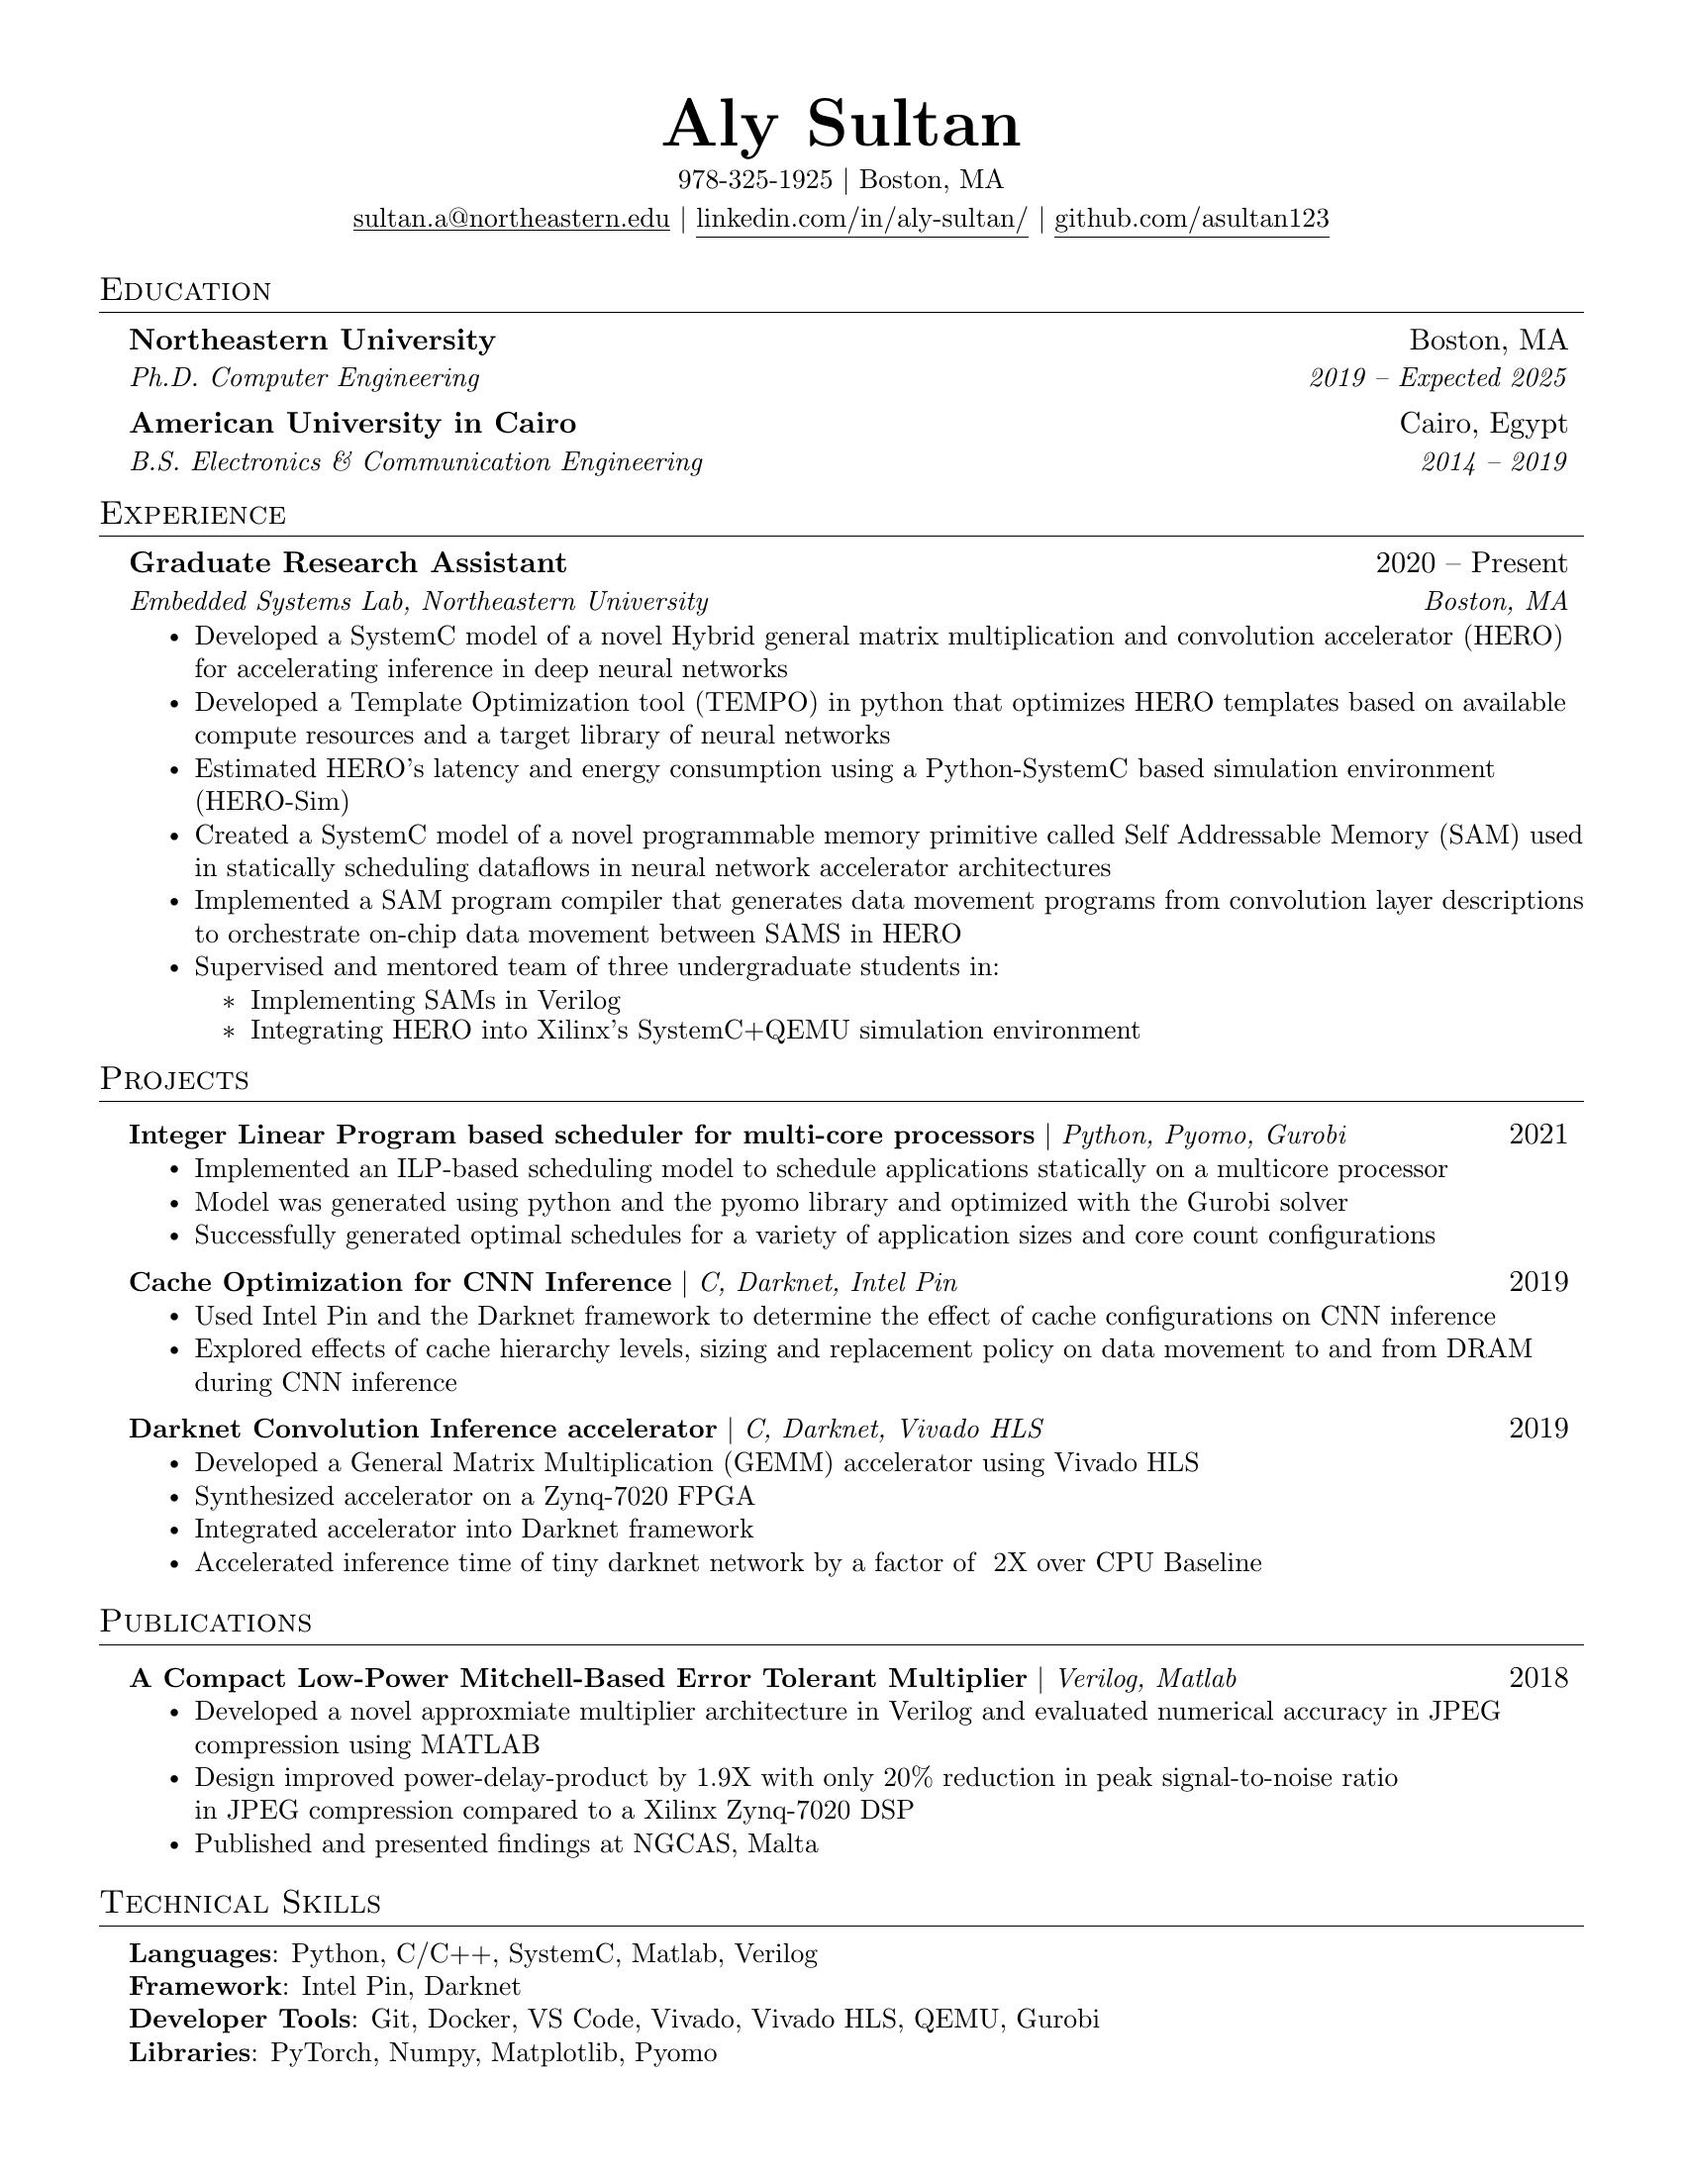
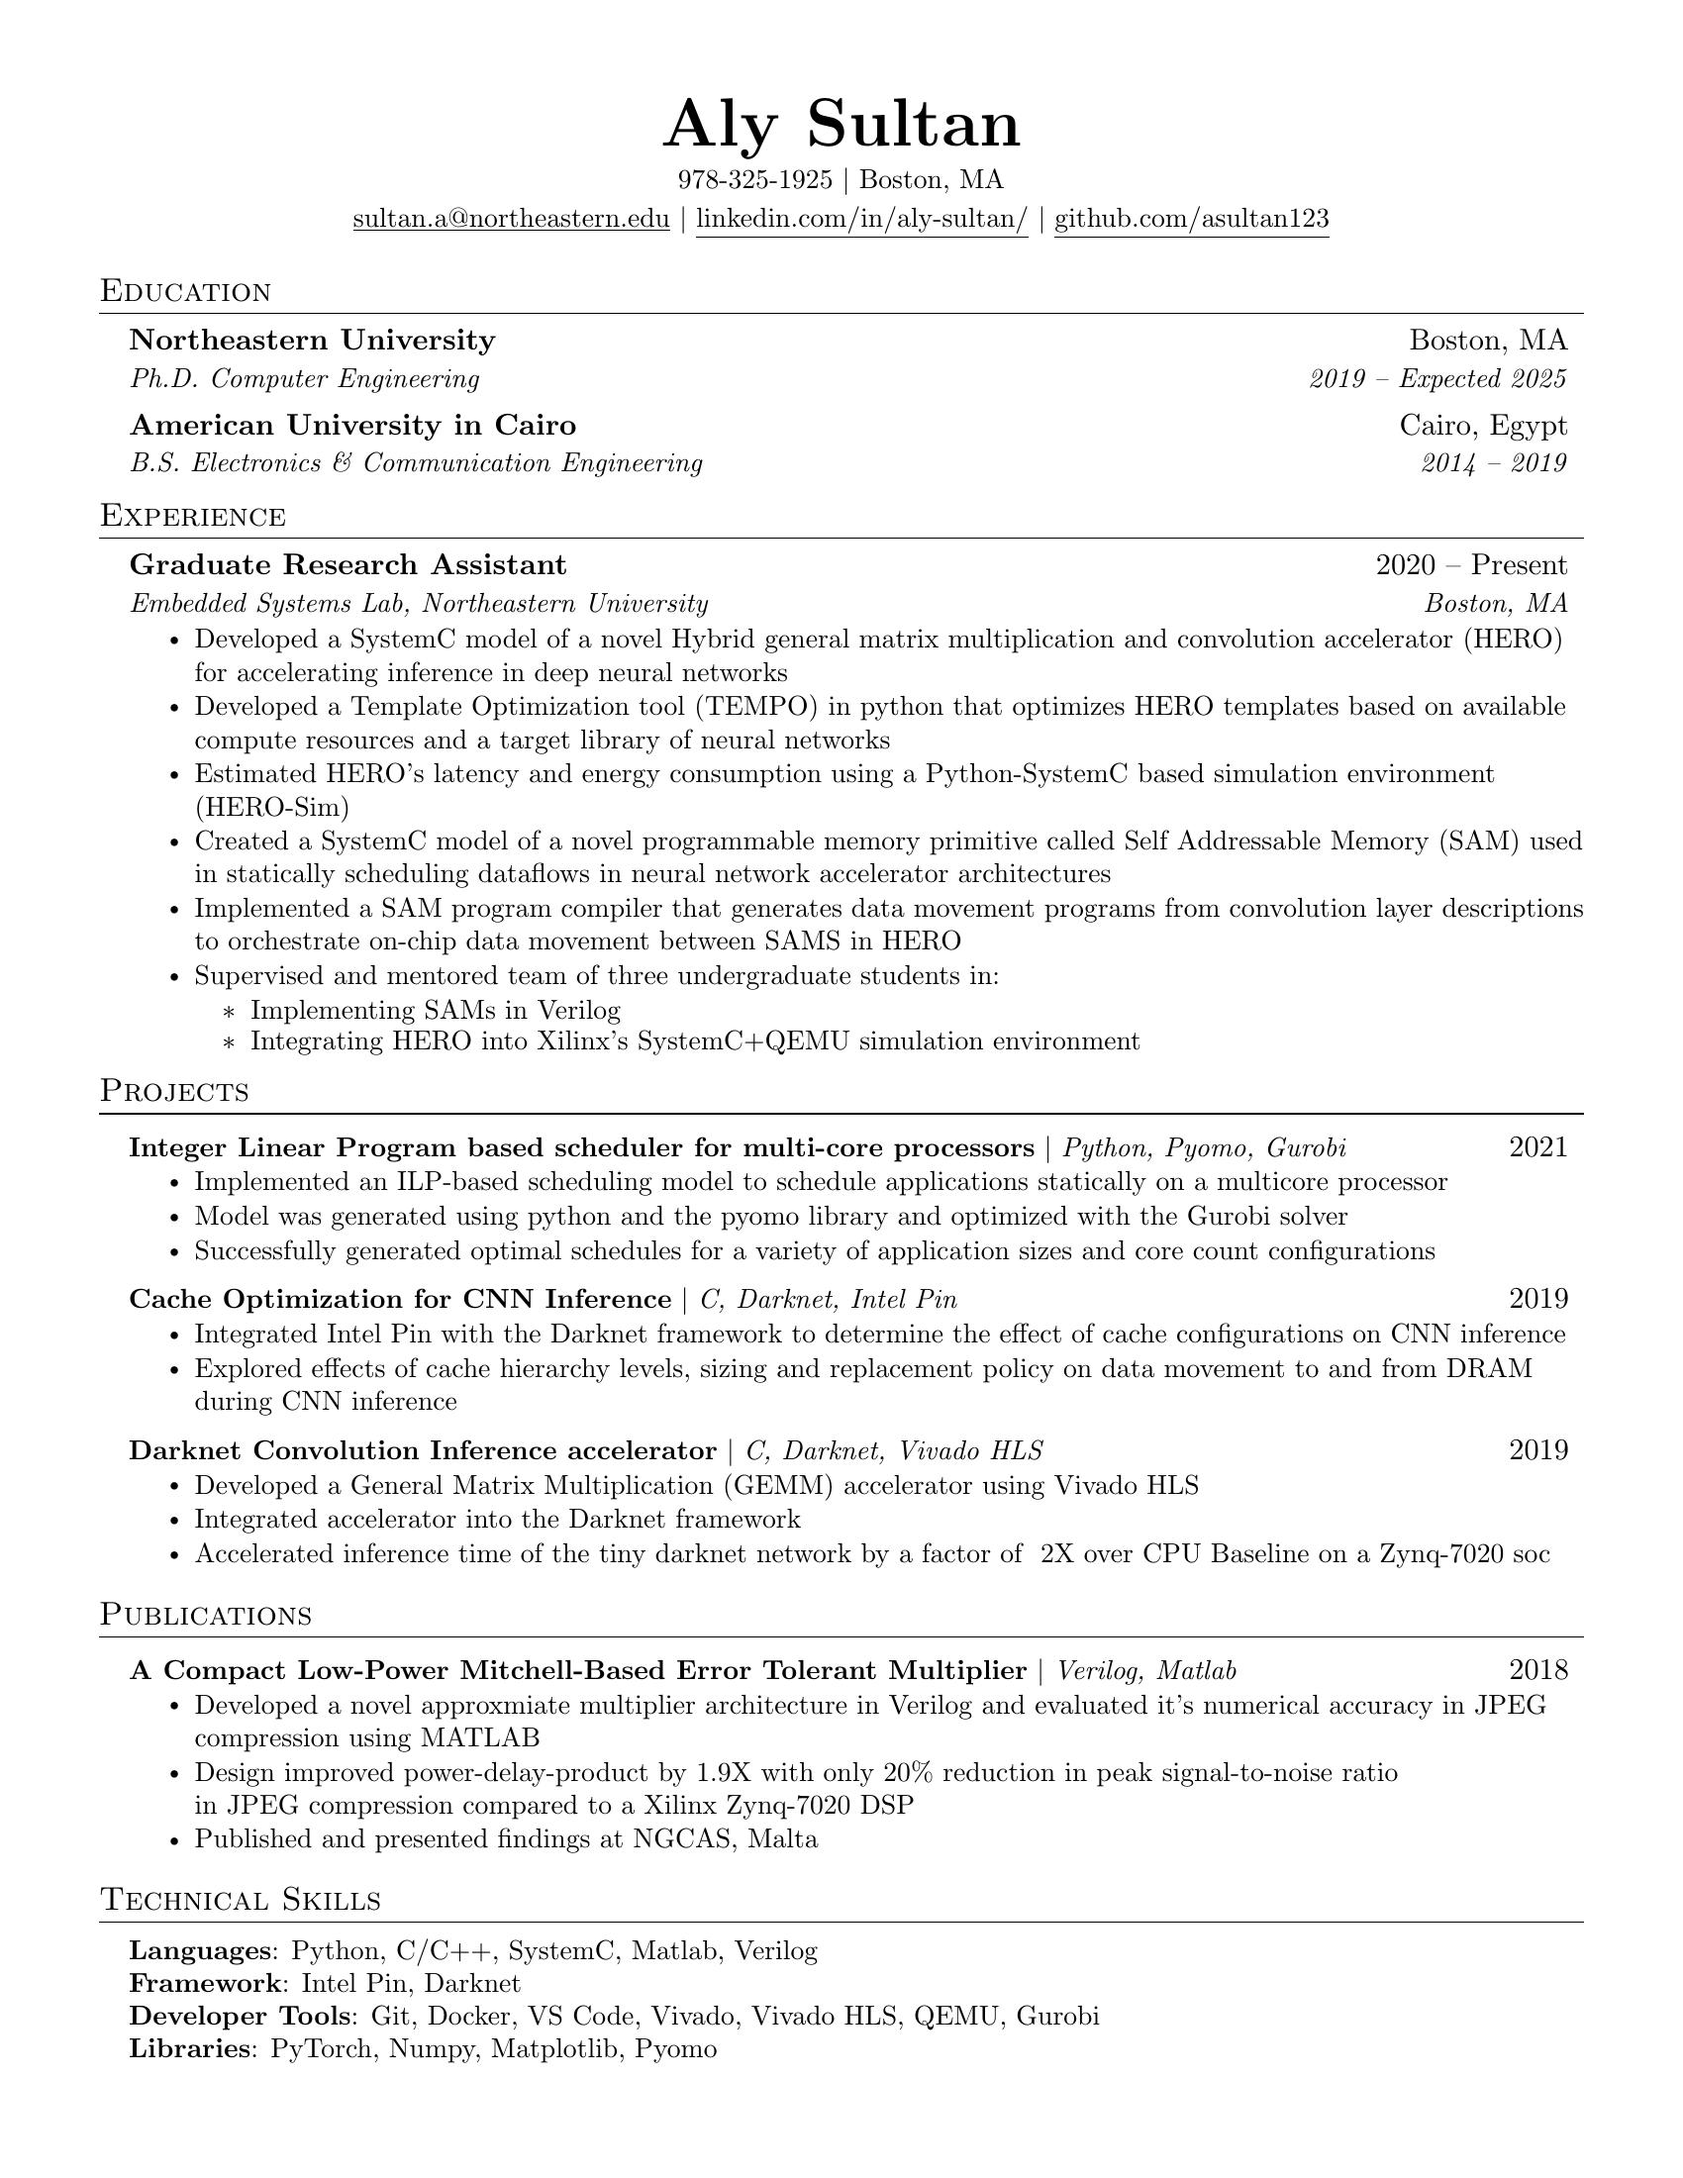
update

diff --git a/main.tex b/main.tex
@@ -157,7 +157,7 @@
   \resumeSubHeadingListEnd
 
 %-----------PROJECTS-----------
-\section{Projects}
+\section{Projects} % add neu 
     \resumeSubHeadingListStart
       \resumeProjectHeading
           {\textbf{Integer Linear Program based scheduler for multi-core processors} $|$ \emph{Python, Pyomo, Gurobi}}{2021}
@@ -175,16 +175,16 @@
         \resumeProjectHeading
           {\textbf{Cache Optimization for CNN Inference} $|$ \emph{C, Darknet, Intel Pin}}{2019}
           \resumeItemListStart
-            \resumeItem{Used Intel Pin and the Darknet framework to determine the effect of cache configurations on CNN inference}
-            \resumeItem{Explored effects of cache hierarchy levels, sizing and replacement policy on data movement to and from DRAM during CNN inference}
+            \resumeItem{Integrated Intel Pin with the Darknet framework to determine the effect of cache configurations on CNN inference}
+            \resumeItem{Explored effects of cache hierarchy levels, sizing and replacement policy on data movement to and from DRAM during CNN inference} % Result of that exploration
           \resumeItemListEnd
         \resumeProjectHeading
           {\textbf{Darknet Convolution Inference accelerator} $|$ \emph{C, Darknet, Vivado HLS}}{2019}
           \resumeItemListStart
             \resumeItem{Developed a General Matrix Multiplication (GEMM) accelerator using Vivado HLS}
-            \resumeItem{Synthesized accelerator on a Zynq-7020 FPGA}
-            \resumeItem{Integrated accelerator into Darknet framework}
-            \resumeItem{Accelerated inference time of tiny darknet network by a factor of ~2X over CPU Baseline}
+            % \resumeItem{Synthesized accelerator on a Zynq-7020 FPGA}
+            \resumeItem{Integrated accelerator into the Darknet framework}
+            \resumeItem{Accelerated inference time of the tiny darknet network by a factor of ~2X over CPU Baseline on a Zynq-7020 soc}
           \resumeItemListEnd
     \resumeSubHeadingListEnd
 
@@ -195,7 +195,7 @@
       \resumeProjectHeading
           {\textbf{A Compact Low-Power Mitchell-Based Error Tolerant Multiplier} $|$ \emph{Verilog, Matlab} }{2018}
           \resumeItemListStart
-            \resumeItem{Developed a novel approxmiate multiplier architecture in Verilog and evaluated numerical accuracy in JPEG compression using MATLAB }
+            \resumeItem{Developed a novel approxmiate multiplier architecture in Verilog and evaluated it's numerical accuracy in JPEG compression using MATLAB }
             \resumeItem{Design improved power-delay-product by 1.9X with only 20\% reduction in peak signal-to-noise ratio \\ in JPEG compression compared to a Xilinx Zynq-7020 DSP}
             \resumeItem{Published and presented findings at NGCAS, Malta}
           \resumeItemListEnd
